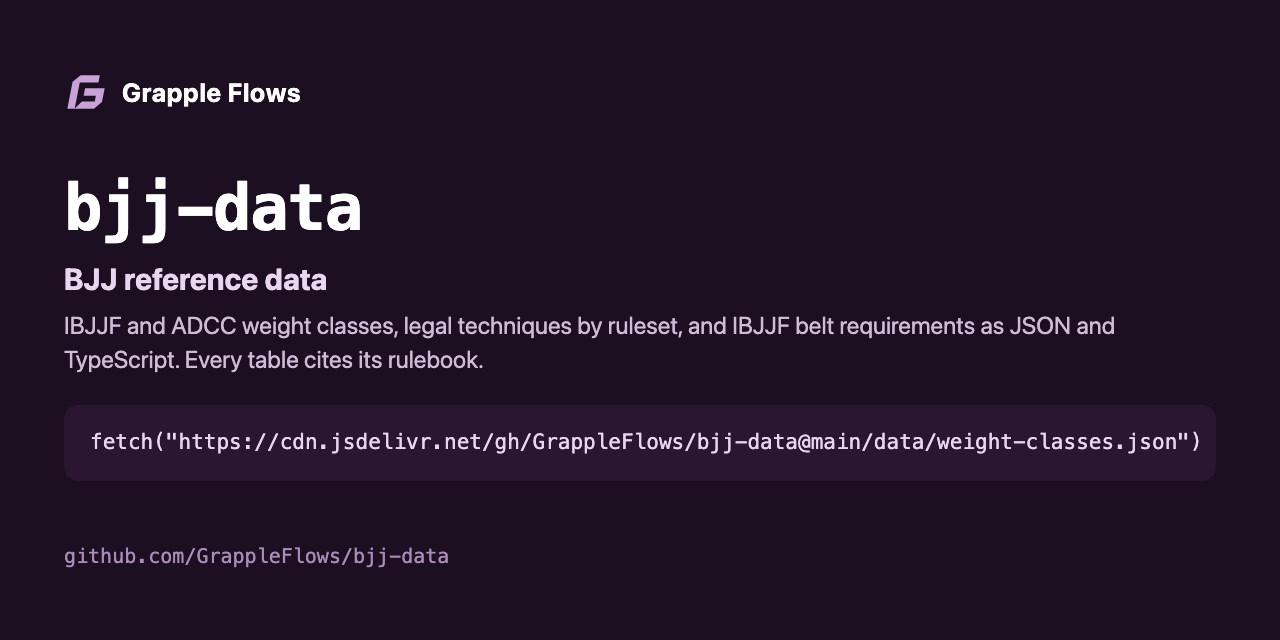
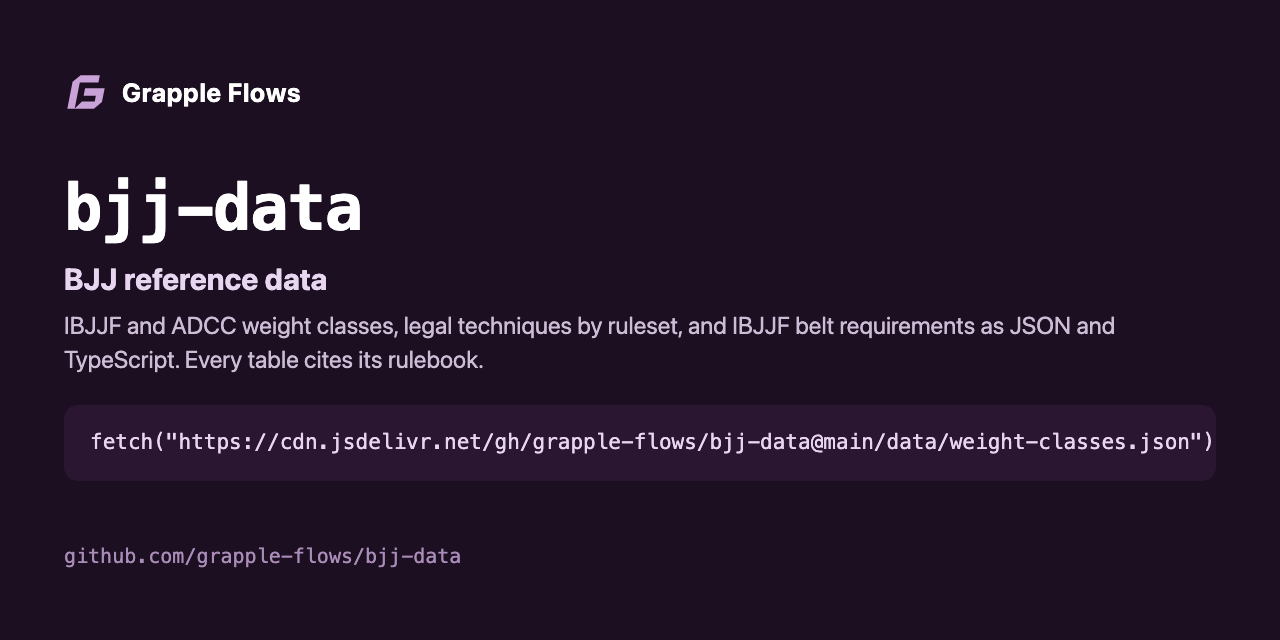
Point links at the renamed org: github.com/grapple-flows

Changed region(s): [[0.5, 0.6562, 0.9375, 0.7188], [0.2188, 0.8438, 0.375, 0.9062]]

diff --git a/src/datasets.ts b/src/datasets.ts
@@ -10,7 +10,7 @@ import { KB_CATEGORIES, KB_TAG_ALIASES } from "./kbTaxonomy.js";
 import { SOURCES, type Source } from "./sources.js";
 
 export const ATTRIBUTION = "Data from bjj-data by Grapple Flows (https://grappleflows.com)";
-const REPOSITORY = "https://github.com/GrappleFlows/bjj-data";
+const REPOSITORY = "https://github.com/grapple-flows/bjj-data";
 const DISCLAIMER =
   "Rules change. Check the official rulebook for your event before competing. Not affiliated with IBJJF, ADCC, NAGA, or Grappling Industries.";
 

diff --git a/README.md b/README.md
@@ -96,13 +96,13 @@ labelForTag("dlr");                    // "De La Riva"
 Every file is available from jsDelivr:
 
 ```
-https://cdn.jsdelivr.net/gh/GrappleFlows/bjj-data@main/data/<file>.json
+https://cdn.jsdelivr.net/gh/grapple-flows/bjj-data@main/data/<file>.json
 ```
 
 For example:
 
 ```js
-const res = await fetch("https://cdn.jsdelivr.net/gh/GrappleFlows/bjj-data@main/data/weight-classes/ibjjf-gi-adult-male.json");
+const res = await fetch("https://cdn.jsdelivr.net/gh/grapple-flows/bjj-data@main/data/weight-classes/ibjjf-gi-adult-male.json");
 const { classes } = await res.json();
 ```
 
@@ -121,7 +121,7 @@ The data is licensed under [CC BY 4.0](https://creativecommons.org/licenses/by/4
 Copy-paste HTML:
 
 ```html
-<p>Data from <a href="https://github.com/GrappleFlows/bjj-data">bjj-data</a> by <a href="https://grappleflows.com">Grapple Flows</a>.</p>
+<p>Data from <a href="https://github.com/grapple-flows/bjj-data">bjj-data</a> by <a href="https://grappleflows.com">Grapple Flows</a>.</p>
 ```
 
 Every JSON file also carries this line in `meta.attribution`.
@@ -138,9 +138,9 @@ This data powers the free tools on grappleflows.com:
 
 ## Related
 
-- [bjj-timer](https://github.com/GrappleFlows/bjj-timer): a BJJ round timer web component with IBJJF match times.
-- [bjj-scoreboard](https://github.com/GrappleFlows/bjj-scoreboard): an IBJJF scoreboard web component with points, advantages, penalties, and tiebreaks.
-- [bjj-bracket](https://github.com/GrappleFlows/bjj-bracket): a tournament bracket generator for single elimination, double elimination, and round robin.
+- [bjj-timer](https://github.com/grapple-flows/bjj-timer): a BJJ round timer web component with IBJJF match times.
+- [bjj-scoreboard](https://github.com/grapple-flows/bjj-scoreboard): an IBJJF scoreboard web component with points, advantages, penalties, and tiebreaks.
+- [bjj-bracket](https://github.com/grapple-flows/bjj-bracket): a tournament bracket generator for single elimination, double elimination, and round robin.
 
 ## Corrections and updates
 
